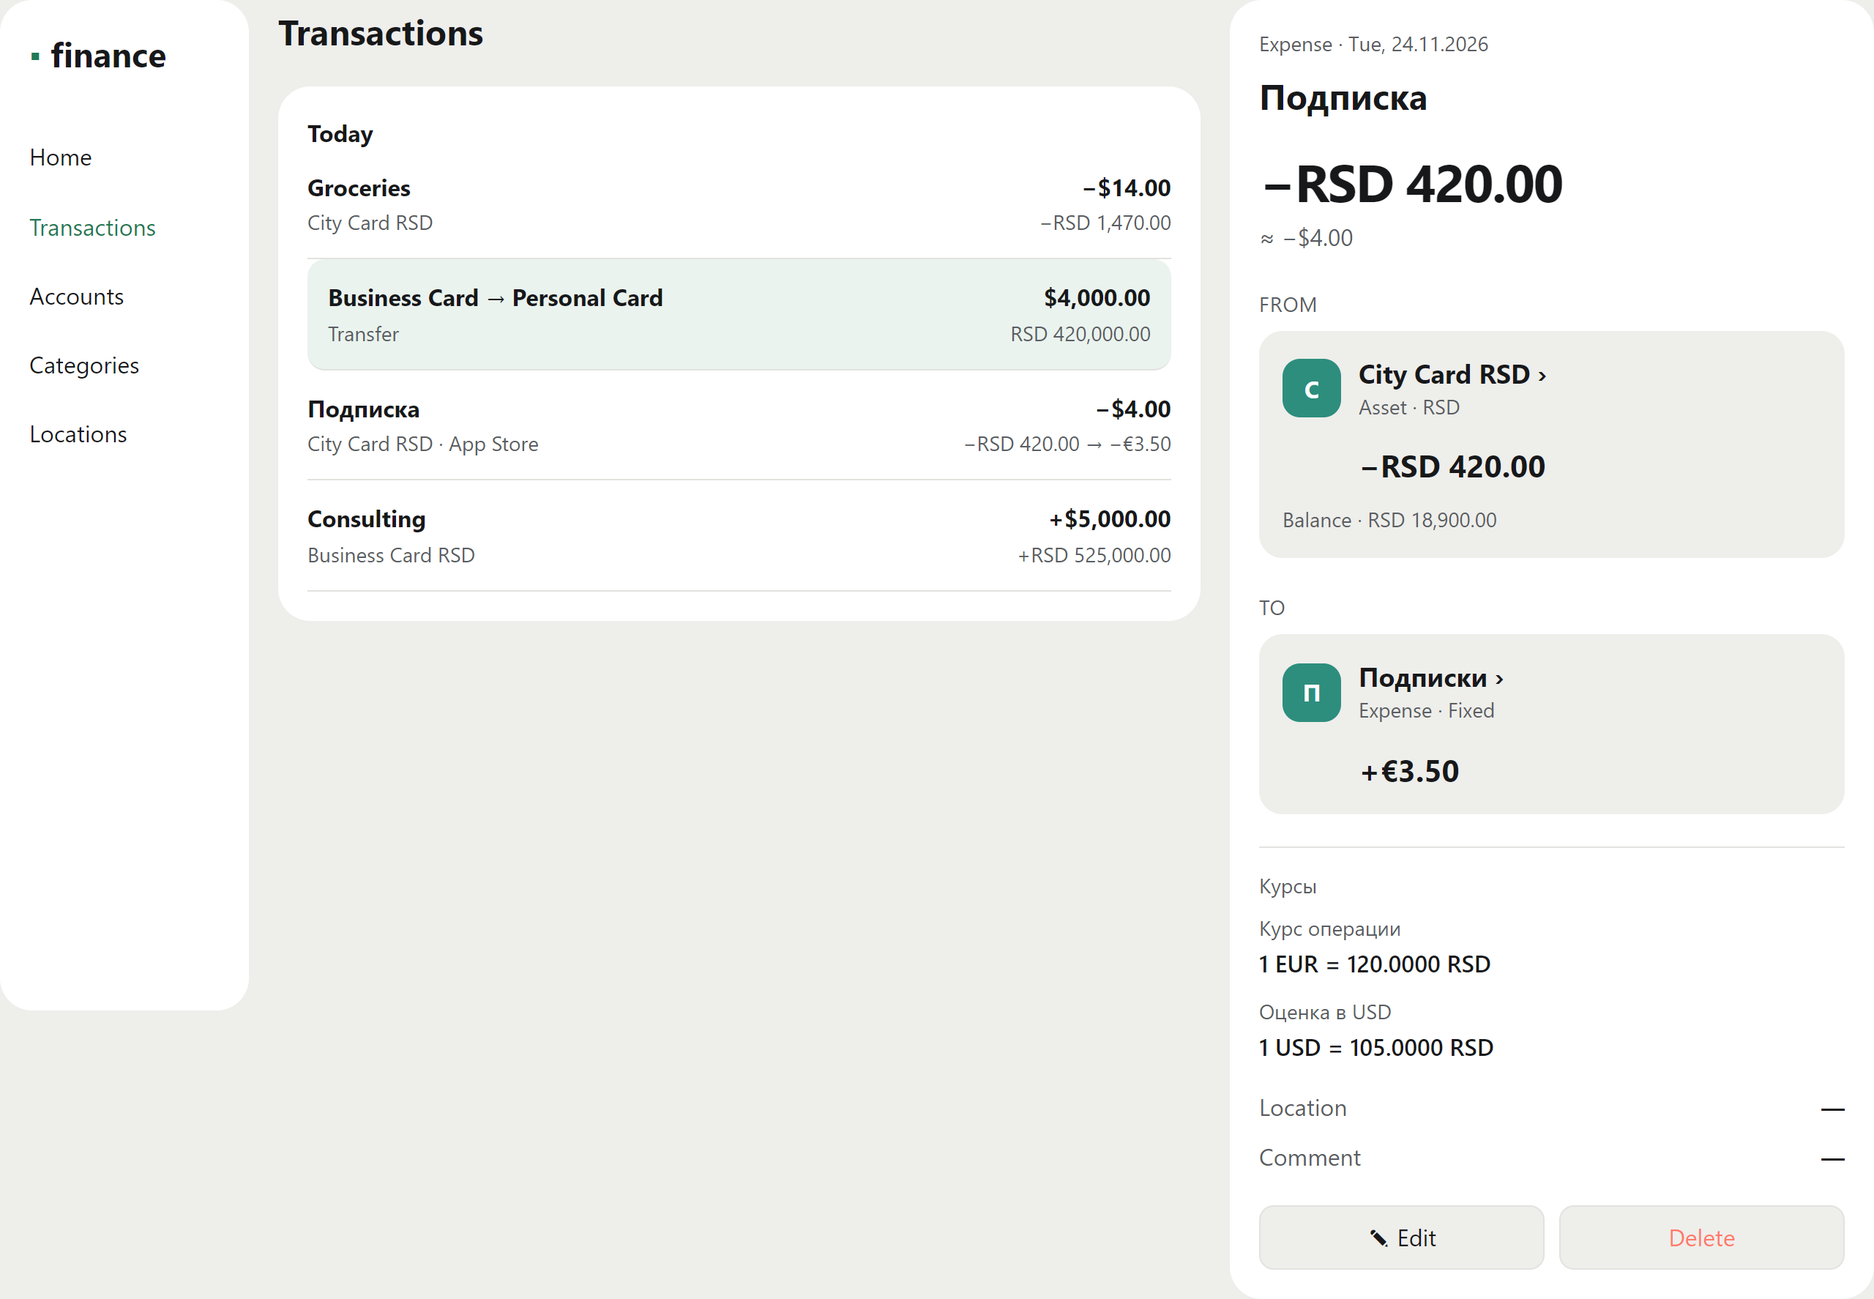
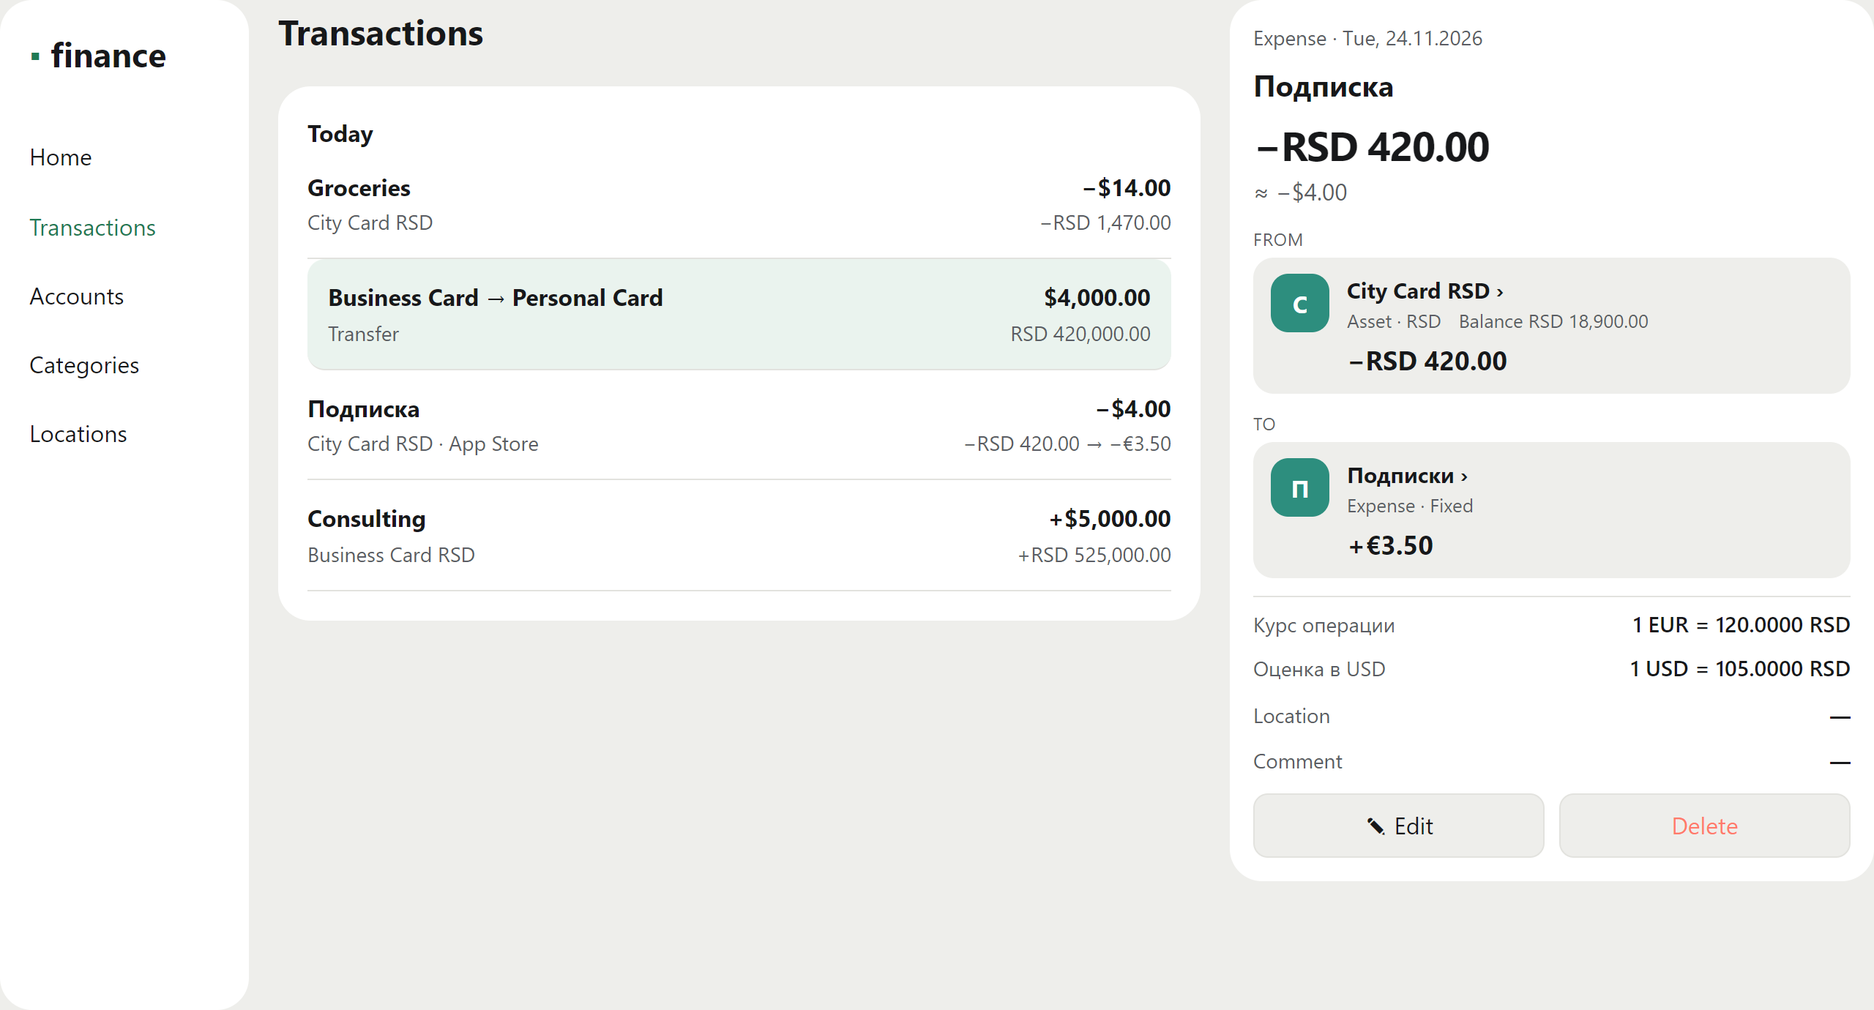
Compact transaction card mockups for #541

diff --git a/541/design/index.html b/541/design/index.html
@@ -1,6 +1,7 @@
 <!doctype html><html lang="ru"><meta charset="utf-8"><meta name="viewport" content="width=device-width,initial-scale=1"><title>Finance — карточки и курсы</title><style>
 :root{color-scheme:dark;--ground:#0b0c0e;--panel:#17191c;--ink:#ecedee;--muted:#9a9ea6;--line:#2a2d32;--selected:#16241d;--accent:#4cc38a} :root[data-theme=light]{color-scheme:light;--ground:#eeeeeb;--panel:#fff;--ink:#17181a;--muted:#5a5d64;--line:#e2e2de;--selected:#eaf3ee;--accent:#1f7a55}*{box-sizing:border-box}body{margin:0;background:var(--ground);color:var(--ink);font:16px/1.45 system-ui,sans-serif}button,select{font:inherit;color:inherit;background:var(--panel);border:1px solid var(--line);border-radius:10px;min-height:44px;padding:8px 14px;cursor:pointer}button.active{background:var(--ink);color:var(--ground)}button:focus-visible,select:focus-visible{outline:2px solid var(--accent);outline-offset:3px}.toolbar{padding:24px;position:sticky;top:0;background:var(--ground);z-index:2;border-bottom:1px solid var(--line)}h1{font-size:24px;margin:0 0 8px}p{margin:8px 0;color:var(--muted)}.controls{display:flex;flex-wrap:wrap;gap:8px;margin-top:16px}label{display:flex;align-items:center;gap:8px}.preview{padding:24px;overflow:auto}.canvas{width:1280px;max-width:100%;margin:auto;display:grid;grid-template-columns:170px minmax(0,1fr) 440px;gap:20px;align-items:start}.canvas.phone{width:390px;display:block}.nav,.panel,.detail{background:var(--panel);border-radius:22px;padding:20px}.nav{min-height:690px}.logo{font-weight:700;font-size:23px;margin:0 0 30px}.logo i{color:var(--accent)}.nav span{display:block;padding:12px 0}.nav .chosen{color:var(--accent)}.panel{margin-bottom:16px}.label{font-size:14px;color:var(--muted)}h2{font-size:24px;margin:8px 0 20px}.primary{font-size:36px;font-weight:650;letter-spacing:-.03em;line-height:1.15;margin:20px 0 6px;font-variant-numeric:tabular-nums}.base{font-size:16px;color:var(--muted)}.role{font-size:14px;text-transform:uppercase;letter-spacing:.04em;color:var(--muted);margin:24px 0 8px}.entry{background:var(--ground);border-radius:16px;padding:16px}.identity{display:flex;gap:12px;align-items:center}.avatar{display:grid;place-items:center;width:40px;height:40px;border-radius:12px;flex:none;background:#2d8e7e;color:white;font-weight:650}.identity strong{font-size:18px;overflow-wrap:break-word}.entryamount{margin:14px 0 0 52px;display:flex;justify-content:space-between;align-items:baseline;gap:8px;flex-wrap:wrap}.entryamount strong{font-size:21px;font-variant-numeric:tabular-nums}.entry .base{font-size:15px}.rates{border-top:1px solid var(--line);margin-top:22px;padding-top:16px}.rates .label{margin-bottom:8px}.rate{display:flex;flex-direction:column;gap:2px;margin-bottom:12px}.rate strong{font-size:16px;font-weight:550}.rate span{font-size:14px;color:var(--muted)}.facts{margin-top:18px}.fact{display:flex;justify-content:space-between;gap:18px;margin:10px 0}.fact span{color:var(--muted)}.actions{display:flex;gap:10px;margin-top:22px}.actions button{flex:1;background:var(--ground)}.actions button:last-child{color:#ff7a6b}.row{padding:14px 0;border-bottom:1px solid var(--line);display:flex;justify-content:space-between;gap:16px}.row strong{display:block}.row small{font-size:14px;color:var(--muted)}.row .money{text-align:right;flex:none}.highlight{background:var(--selected);padding:14px;border-radius:12px}.summary{font-size:32px;font-weight:650}.tiles{display:flex;gap:10px;margin-top:16px}.tile{background:var(--ground);border-radius:14px;padding:14px;flex:1}.tile strong{display:block;margin:4px 0}.tile small{color:var(--muted);font-size:14px}.middle>h2{margin-top:4px}.phone .nav,.phone .middle{display:none}.phone .detail{border-radius:22px}.variant-b .entryamount{margin:14px 0 0;text-align:right;display:block}.variant-b .entryamount .base{display:block;margin-top:4px}.variant-b .entry{padding:14px}.variant-b .rates{padding:16px;background:var(--ground);border-radius:14px;border:0}.hint{max-width:1000px;margin:16px auto;font-size:14px}.catalog .canvas{grid-template-columns:70px minmax(220px,1fr) minmax(240px,1fr) 440px}.catalog .nav span{font-size:0}.catalog .nav span:first-letter{font-size:18px}.catalog .logo{font-size:0}.accountlist{display:none}.catalog .accountlist{display:block}.catalog .tile{margin-bottom:14px}.catalog .canvas.phone{display:block}.catalog .phone .accountlist{display:none}@media(max-width:900px){.canvas{max-width:none}.preview{padding:16px}.toolbar{position:static}.preview:has(.phone){overflow:visible}.canvas.phone{max-width:100%}}
-</style><header class="toolbar"><h1>Finance · суммы, курсы и пространство</h1><p>Два варианта для согласования. Все имена и операции вымышлены.</p><div class="controls"><button id="a" class="active">A · название сверху, суммы ниже</button><button id="b">B · суммы отдельным блоком справа</button><label>Экран <select id="screen"><option value="transactions">Transactions</option><option value="home">Home</option><option value="catalog">Accounts</option></select></label><label>Пример <select id="example"><option value="expense">Расход RSD → EUR</option><option value="same">Расход RSD → RSD</option><option value="fee">Расход RSD → USD</option><option value="transfer">Перевод RSD → RSD</option><option value="fx">Перевод USD → RSD</option><option value="income">Доход в RSD</option><option value="adjustment">Корректировка в RSD</option><option value="different">Перевод с разной оценкой</option><option value="unvalued">Операция без оценки</option></select></label><button id="width">Телефон · 390</button><button id="theme">Светлая тема</button></div></header><div class="preview"><div class="canvas" id="canvas"></div></div><p class="hint">Панель деталей: 440 CSS px на компьютере. В компактной раскладке сначала сворачивается меню; три колонки появляются только при достаточной ширине. Названия и суммы не обрезаются. Курсы находятся в одном блоке; список транзакций показывает суммы без курсов.</p><script>
+.detail{padding:16px}.detail h2{line-height:1.35;margin:8px 0 12px;font-size:20px}.primary{font-size:28px;margin:12px 0 4px}.role{margin:12px 0 4px;font-size:12px}.entry{padding:10px 12px;border-radius:14px}.identity strong{font-size:15px}.entry .identity .label{font-size:13px;display:flex;flex-wrap:wrap;gap:0 12px}.entryamount{margin-top:4px}.entryamount strong{font-size:18px}.rates{margin-top:12px;padding-top:8px}.rate{flex-direction:row;flex-wrap:wrap;justify-content:space-between;align-items:baseline;gap:0 12px;margin-bottom:8px}.rate strong{font-size:15px}.rate span{font-size:14px}.facts{margin-top:12px;font-size:14px}.actions{margin-top:12px}</style><header class="toolbar"><h1>Finance · суммы, курсы и пространство</h1><p>Два варианта для согласования. Все имена и операции вымышлены.</p><div class="controls"><button id="a" class="active">A · название сверху, суммы ниже</button><button id="b">B · суммы отдельным блоком справа</button><label>Экран <select id="screen"><option value="transactions">Transactions</option><option value="home">Home</option><option value="catalog">Accounts</option></select></label><label>Пример <select id="example"><option value="expense">Расход RSD → EUR</option><option value="same">Расход RSD → RSD</option><option value="fee">Расход RSD → USD</option><option value="transfer">Перевод RSD → RSD</option><option value="fx">Перевод USD → RSD</option><option value="income">Доход в RSD</option><option value="adjustment">Корректировка в RSD</option><option value="different">Перевод с разной оценкой</option><option value="unvalued">Операция без оценки</option></select></label><button id="width">Телефон · 390</button><button id="theme">Светлая тема</button></div></header><div class="preview"><div class="canvas" id="canvas"></div></div><p class="hint">Панель деталей: 440 CSS px на компьютере. В компактной раскладке сначала сворачивается меню; три колонки появляются только при достаточной ширине. Названия и суммы не обрезаются. Курсы находятся в одном блоке; список транзакций показывает суммы без курсов.</p><script>
 const examples={expense:{type:'Expense',title:'Подписка',amount:'−RSD 420.00',base:'≈ −$4.00',from:'City Card RSD',to:'Подписки',fromAmount:'−RSD 420.00',toAmount:'+€3.50',fromNote:'Asset · RSD',toNote:'Expense · Fixed',rates:[['Курс операции','1 EUR = 120.0000 RSD'],['Оценка в USD','1 USD = 105.0000 RSD']]},same:{type:'Expense',title:'Groceries',amount:'−RSD 1,470.00',base:'≈ −$14.00',from:'City Card RSD',to:'Groceries',fromAmount:'−RSD 1,470.00',toAmount:'+RSD 1,470.00',fromNote:'Asset · RSD',toNote:'Expense · Variable',rates:[['Оценка в USD','1 USD = 105.0000 RSD']]},fee:{type:'Expense',title:'Service fee',amount:'−RSD 1,365.00',base:'≈ −$13.00',from:'Business Card RSD',to:'Fees',fromAmount:'−RSD 1,365.00',toAmount:'+$13.00',fromNote:'Asset · RSD',toNote:'Expense · Fixed',rates:[['Курс операции · также оценка в USD','1 USD = 105.0000 RSD']]},transfer:{type:'Transfer',title:'Transfer Business Card RSD → Personal Card RSD',amount:'RSD 420,000.00',base:'≈ $4,000.00',from:'Business Card RSD',to:'Personal Card RSD',fromAmount:'−RSD 420,000.00',toAmount:'+RSD 420,000.00',fromNote:'Asset · RSD',toNote:'Asset · RSD',rates:[['Оценка в USD','1 USD = 105.0000 RSD']]},fx:{type:'Transfer',title:'Transfer USD Card → Cash RSD',amount:'$10.00',base:'',from:'USD Card',to:'Cash RSD',fromAmount:'−$10.00',toAmount:'+RSD 1,050.00',fromNote:'Asset · USD',toNote:'Asset · RSD',rates:[['Курс операции · также оценка в USD','1 USD = 105.0000 RSD']]},income:{type:'Income',title:'Consulting',amount:'+RSD 525,000.00',base:'≈ +$5,000.00',from:'Consulting',to:'Business Card RSD',fromAmount:'−RSD 525,000.00',toAmount:'+RSD 525,000.00',fromNote:'Income',toNote:'Asset · RSD',rates:[['Оценка в USD','1 USD = 105.0000 RSD']]},adjustment:{type:'Adjustment',title:'Balance adjustment',amount:'+RSD 1,050.00',base:'≈ +$10.00',from:null,to:'Cash RSD',toAmount:'+RSD 1,050.00',toNote:'Asset · RSD',rates:[['Оценка в USD','1 USD = 105.0000 RSD']]},different:{type:'Transfer',title:'Transfer EUR Card → Cash RSD',amount:'€100.00',base:'≈ $110.00',from:'EUR Card',to:'Cash RSD',fromAmount:'−€100.00',toAmount:'+RSD 12,000.00',fromNote:'Asset · EUR',toNote:'Asset · RSD',rates:[['Курс операции','1 EUR = 120.0000 RSD'],['Оценка FROM в USD','1 USD = 0.9091 EUR'],['Оценка TO в USD','1 USD = 100.0000 RSD']],difference:'+$10.00'},unvalued:{type:'Expense',title:'Groceries',amount:'−RSD 1,470.00',base:'Ещё не оценено',from:'City Card RSD',to:'Groceries',fromAmount:'−RSD 1,470.00',toAmount:'+RSD 1,470.00',fromNote:'Asset · RSD',toNote:'Expense · Variable',rates:[]}};
-let variant='a',phone=false,theme='dark';const $=id=>document.getElementById(id);function row(title,sub,amount,original,selected=false){return `<div class="row ${selected?'highlight':''}"><div><strong>${title}</strong><small>${sub}</small></div><div class="money"><strong>${amount}</strong><small>${original}</small></div></div>`}function entry(role,name,note,amount){return `<div class="role">${role}</div><section class="entry"><div class="identity"><span class="avatar">${name[0]}</span><div><strong>${name} ›</strong><div class="label">${note}</div></div></div><div class="entryamount"><strong>${amount}</strong></div>${note.startsWith('Asset')?'<div class="label" style="margin-top:12px">Balance · '+(name.includes('USD')?'$250.00':'RSD 18,900.00')+'</div>':''}</section>`}function render(){const e=examples[$('example').value],screen=$('screen').value;document.body.className=(screen==='catalog'?'catalog ':'')+'variant-'+variant;$('canvas').className='canvas'+(phone?' phone':'');const rows=row('Groceries','City Card RSD','−$14.00','−RSD 1,470.00')+row('Business Card → Personal Card','Transfer','$4,000.00','RSD 420,000.00',true)+row('Подписка','City Card RSD · App Store','−$4.00','−RSD 420.00 → −€3.50')+row('Consulting','Business Card RSD','+$5,000.00','+RSD 525,000.00');$('canvas').innerHTML=`<aside class="nav"><div class="logo"><i>▪</i> finance</div><span class="${screen==='home'?'chosen':''}">Home</span><span class="${screen==='transactions'?'chosen':''}">Transactions</span><span class="${screen==='catalog'?'chosen':''}">Accounts</span><span>Categories</span><span>Locations</span></aside><section class="panel accountlist"><h2>Accounts</h2>${row('Cash RSD','Asset','$180.00','RSD 18,900.00')}${row('Business Card RSD','Asset','$350.00','RSD 36,750.00',true)}${row('Personal Card RSD','Asset','$4,200.00','RSD 441,000.00')}</section><main class="middle"><h2>${screen==='home'?'Home':screen==='catalog'?'Business Card RSD':'Transactions'}</h2>${screen==='home'?'<section class="panel"><div class="label">Total balance · USD</div><div class="summary">$4,980.00</div><div class="tiles"><div class="tile">Cash RSD<strong>$180.00</strong><small>RSD 18,900.00</small></div><div class="tile">City Card<strong>$350.00</strong><small>RSD 36,750.00</small></div></div></section><section class="panel"><strong>This month</strong><p>Spent −$820.00 · Left $4,180.00</p></section>':''}<section class="panel"><strong>${screen==='home'?'Recent transactions':'Today'}</strong>${rows}</section></main><article class="detail"><div class="label">${e.type} · Tue, 24.11.2026</div><h2>${e.title}</h2><div class="primary">${e.amount}</div>${e.base?'<div class="base">'+e.base+'</div>':''}${e.from?entry('From',e.from,e.fromNote,e.fromAmount):''}${entry('To',e.to,e.toNote,e.toAmount)}${e.rates.length?'<section class="rates"><div class="label">Курсы</div>'+e.rates.map(([label,rate])=>'<div class="rate"><span>'+label+'</span><strong>'+rate+'</strong></div>').join('')+'</section>':''}${e.difference?'<div class="fact"><span>Exchange difference</span><strong>'+e.difference+'</strong></div>':''}<div class="facts"><div class="fact"><span>Location</span><strong>—</strong></div><div class="fact"><span>Comment</span><strong>—</strong></div></div><div class="actions"><button aria-label="Edit transaction">✎ Edit</button><button aria-label="Delete transaction">Delete</button></div></article>`;$('a').classList.toggle('active',variant==='a');$('b').classList.toggle('active',variant==='b');$('width').textContent=phone?'Компьютер · 1280':'Телефон · 390'}$('a').onclick=()=>{variant='a';render()};$('b').onclick=()=>{variant='b';render()};$('width').onclick=()=>{phone=!phone;render()};$('theme').onclick=()=>{theme=theme==='dark'?'light':'dark';document.documentElement.dataset.theme=theme;$('theme').textContent=theme==='dark'?'Светлая тема':'Тёмная тема'};$('screen').onchange=$('example').onchange=render;render();
+let variant='a',phone=false,theme='dark';const $=id=>document.getElementById(id);function row(title,sub,amount,original,selected=false){return `<div class="row ${selected?'highlight':''}"><div><strong>${title}</strong><small>${sub}</small></div><div class="money"><strong>${amount}</strong><small>${original}</small></div></div>`}function entry(role,name,note,amount){const balance=note.startsWith('Asset')?(name.includes('USD')?'$250.00':'RSD 18,900.00'):null;return `<div class="role">${role}</div><section class="entry"><div class="identity"><span class="avatar">${name[0]}</span><div><strong>${name} ›</strong><div class="label"><span>${note}</span>${balance?'<span>Balance '+balance+'</span>':''}</div></div></div><div class="entryamount"><strong>${amount}</strong></div></section>`}function render(){const e=examples[$('example').value],screen=$('screen').value;document.body.className=(screen==='catalog'?'catalog ':'')+'variant-'+variant;$('canvas').className='canvas'+(phone?' phone':'');const rows=row('Groceries','City Card RSD','−$14.00','−RSD 1,470.00')+row('Business Card → Personal Card','Transfer','$4,000.00','RSD 420,000.00',true)+row('Подписка','City Card RSD · App Store','−$4.00','−RSD 420.00 → −€3.50')+row('Consulting','Business Card RSD','+$5,000.00','+RSD 525,000.00');$('canvas').innerHTML=`<aside class="nav"><div class="logo"><i>▪</i> finance</div><span class="${screen==='home'?'chosen':''}">Home</span><span class="${screen==='transactions'?'chosen':''}">Transactions</span><span class="${screen==='catalog'?'chosen':''}">Accounts</span><span>Categories</span><span>Locations</span></aside><section class="panel accountlist"><h2>Accounts</h2>${row('Cash RSD','Asset','$180.00','RSD 18,900.00')}${row('Business Card RSD','Asset','$350.00','RSD 36,750.00',true)}${row('Personal Card RSD','Asset','$4,200.00','RSD 441,000.00')}</section><main class="middle"><h2>${screen==='home'?'Home':screen==='catalog'?'Business Card RSD':'Transactions'}</h2>${screen==='home'?'<section class="panel"><div class="label">Total balance · USD</div><div class="summary">$4,980.00</div><div class="tiles"><div class="tile">Cash RSD<strong>$180.00</strong><small>RSD 18,900.00</small></div><div class="tile">City Card<strong>$350.00</strong><small>RSD 36,750.00</small></div></div></section><section class="panel"><strong>This month</strong><p>Spent −$820.00 · Left $4,180.00</p></section>':''}<section class="panel"><strong>${screen==='home'?'Recent transactions':'Today'}</strong>${rows}</section></main><article class="detail"><div class="label">${e.type} · Tue, 24.11.2026</div><h2>${e.title}</h2><div class="primary">${e.amount}</div>${e.base?'<div class="base">'+e.base+'</div>':''}${e.from?entry('From',e.from,e.fromNote,e.fromAmount):''}${entry('To',e.to,e.toNote,e.toAmount)}${e.rates.length?'<section class="rates">'+e.rates.map(([label,rate])=>'<div class="rate"><span>'+label+'</span><strong>'+rate+'</strong></div>').join('')+'</section>':''}${e.difference?'<div class="fact"><span>Exchange difference</span><strong>'+e.difference+'</strong></div>':''}<div class="facts"><div class="fact"><span>Location</span><strong>—</strong></div><div class="fact"><span>Comment</span><strong>—</strong></div></div><div class="actions"><button aria-label="Edit transaction">✎ Edit</button><button aria-label="Delete transaction">Delete</button></div></article>`;$('a').classList.toggle('active',variant==='a');$('b').classList.toggle('active',variant==='b');$('width').textContent=phone?'Компьютер · 1280':'Телефон · 390'}$('a').onclick=()=>{variant='a';render()};$('b').onclick=()=>{variant='b';render()};$('width').onclick=()=>{phone=!phone;render()};$('theme').onclick=()=>{theme=theme==='dark'?'light':'dark';document.documentElement.dataset.theme=theme;$('theme').textContent=theme==='dark'?'Светлая тема':'Тёмная тема'};$('screen').onchange=$('example').onchange=render;render();
 </script></html>
+
